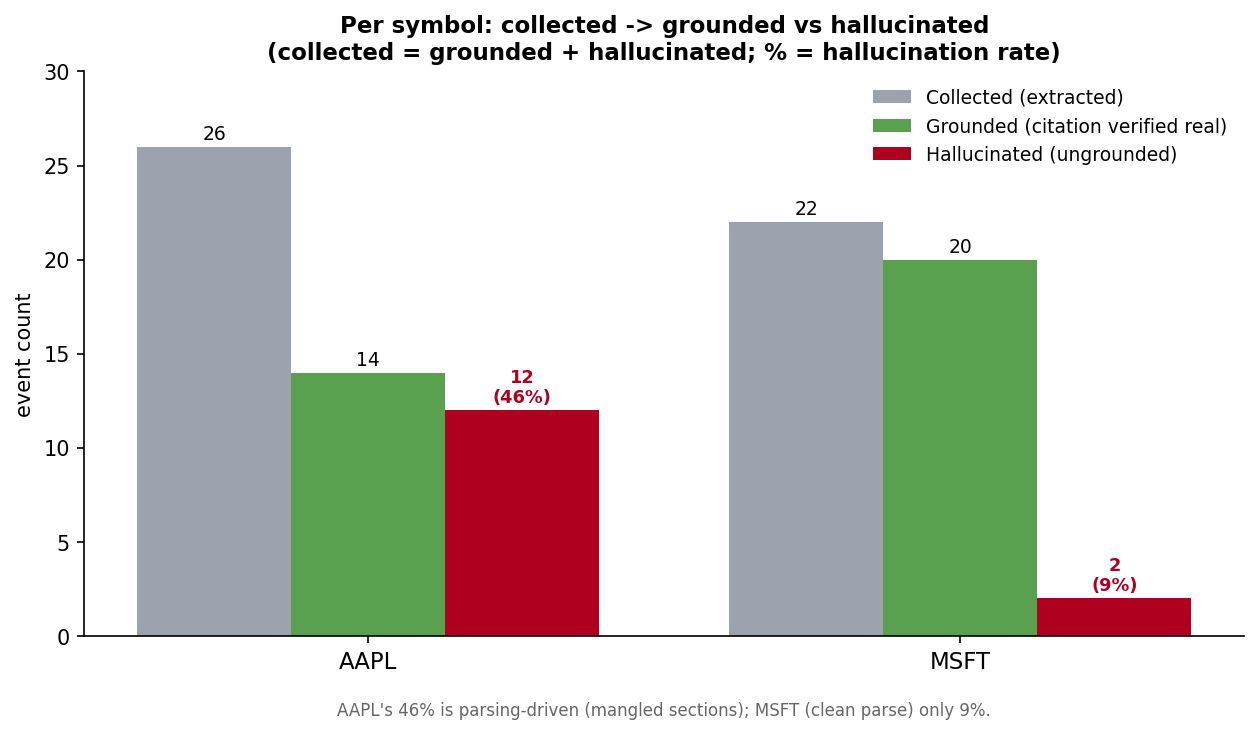
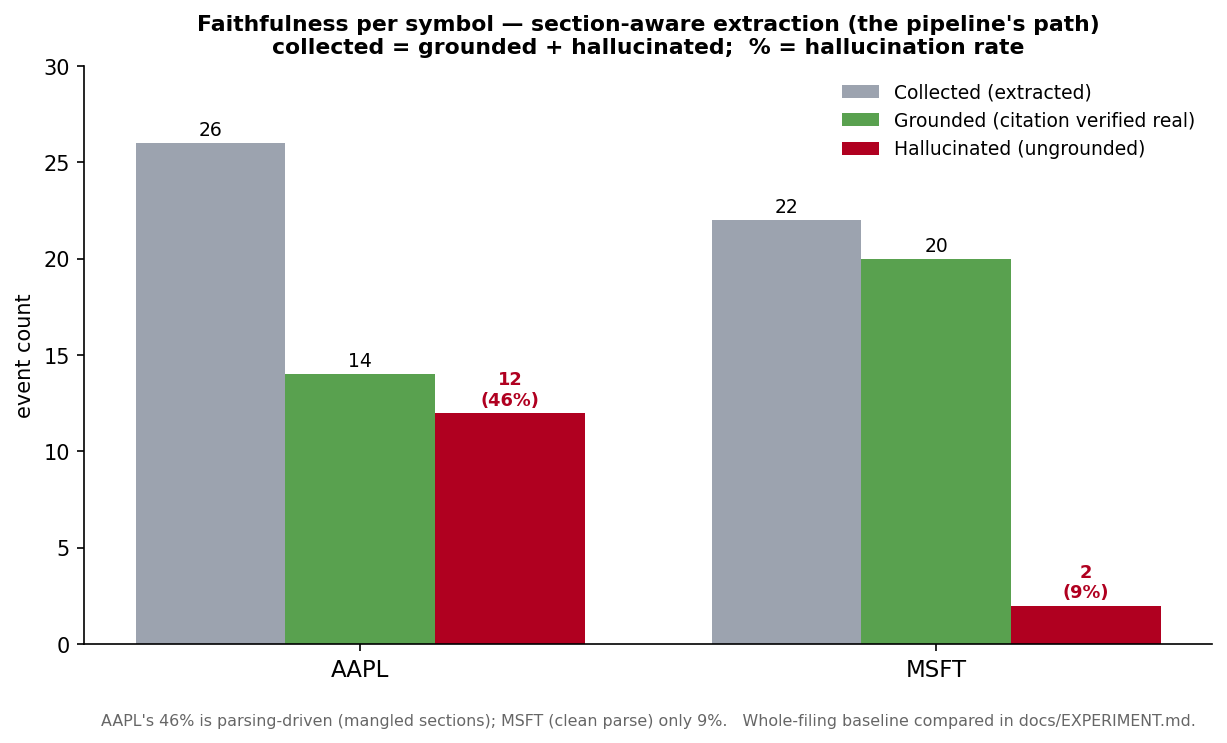
docs(readme): label hero chart as section-aware extraction + link to whole-vs-section comparison

diff --git a/README.md b/README.md
@@ -15,11 +15,12 @@ only (SEC EDGAR); no proprietary content.**
 
 ![Per symbol: collected vs grounded vs hallucinated](reports/figures/hallucination.png)
 
-*The faithfulness reality: of what the agent extracts, how much has a **verifiable**
-citation vs a **fabricated** one. AAPL's ~46% ungrounded is **parsing-driven** (MSFT,
-clean parse: ~9%) — which is exactly why settlement-grade extraction pulls numbers
-from **structured XBRL**, not HTML. The grounding eval makes this visible; the gate
-refuses to act on it.*
+*The faithfulness reality (**section-aware extraction** — the pipeline's path): of
+what the agent extracts, how much has a **verifiable** citation vs a **fabricated**
+one. AAPL's ~46% ungrounded is **parsing-driven** (MSFT, clean parse: ~9%) — which is
+exactly why settlement-grade extraction pulls numbers from **structured XBRL**, not
+HTML. The grounding eval makes this visible; the gate refuses to act on it.
+(Whole-filing vs section-aware are compared in [docs/EXPERIMENT.md](docs/EXPERIMENT.md).)*
 
 ## What this demonstrates
 - **Faithfulness / hallucination detection** — every event must carry a citation
